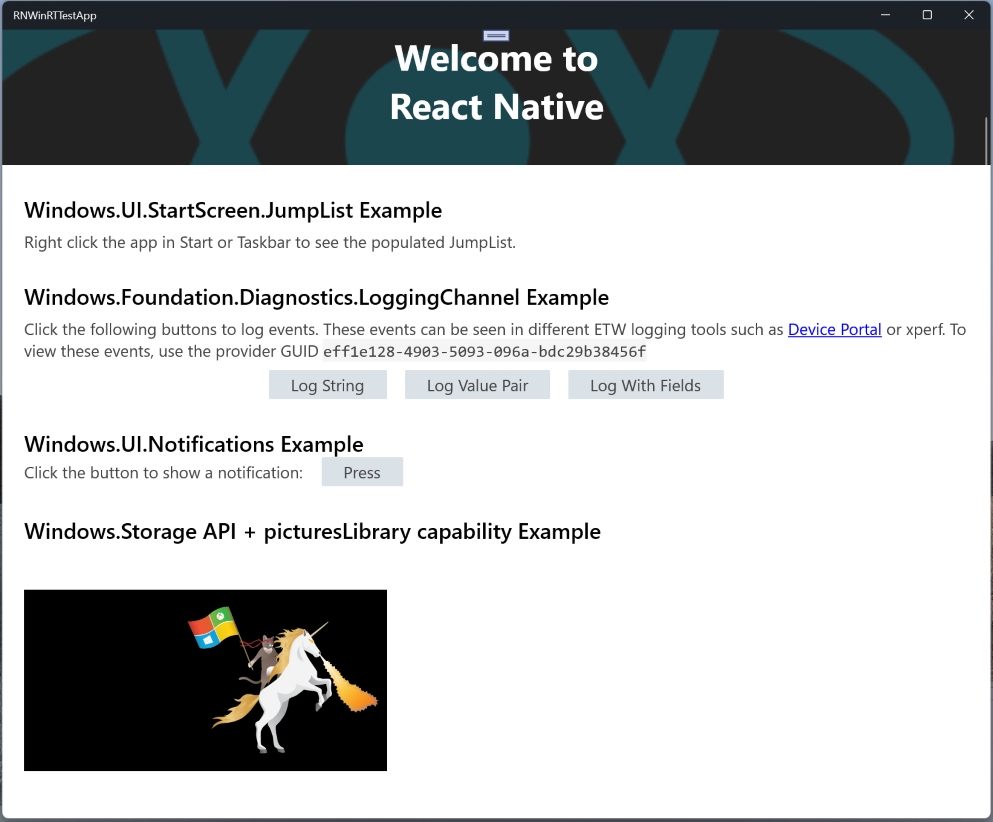
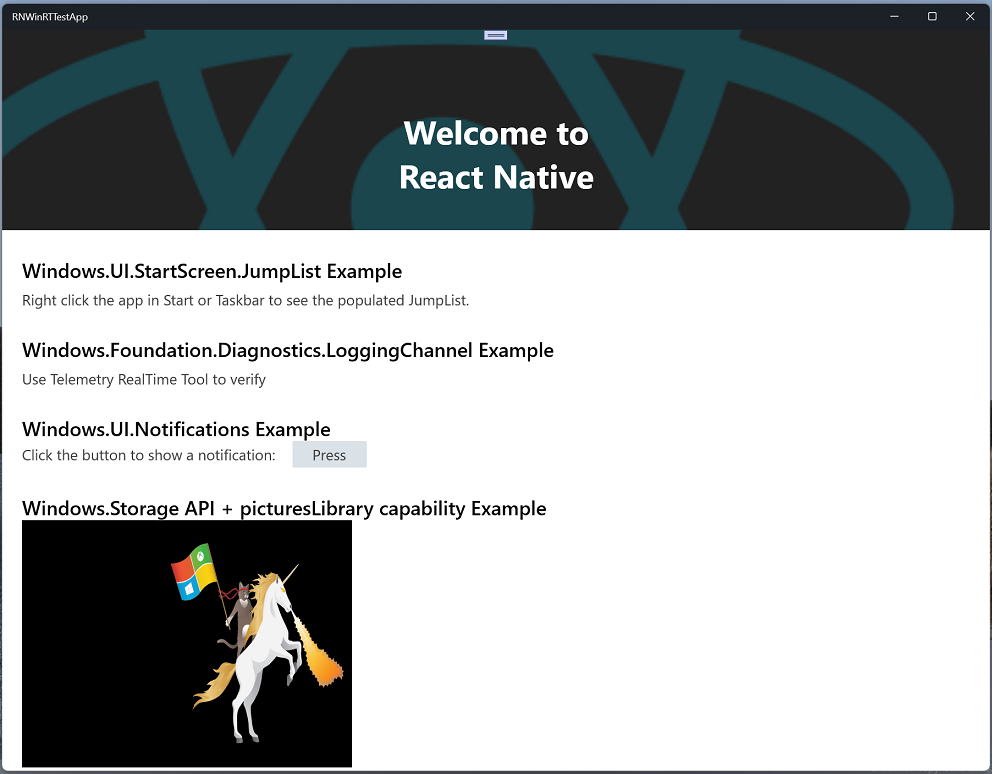
Revert "Update sample to use different ids, etc. for LoggingChannel example"

diff --git a/samples/RNWinRTTestApp/App.tsx b/samples/RNWinRTTestApp/App.tsx
@@ -11,7 +11,6 @@ import {
     Text,
     StatusBar,
     Pressable,
-    Linking,
 } from "react-native";
 
 import {
@@ -126,6 +125,25 @@ async function getPictureThumbnailAsync(): Promise<string> {
     return "";
 }
 
+function logWindowsTelemetry(): void
+{
+    try {
+        const DiagnosticsApi = Windows.Foundation.Diagnostics;
+        const loggingChannel =  new DiagnosticsApi.LoggingChannel("Microsoft-Windows-Shell-Launcher",
+          new DiagnosticsApi.LoggingChannelOptions("{4F50731A-89CF-4782-B3E0-DCE8C90476BA}"), "{3d6120a6-0986-51c4-213a-e2975903051d}")
+
+        const loggingOptions = new DiagnosticsApi.LoggingOptions();
+        loggingOptions.keywords = 0x0000400000000000;
+        loggingOptions.tags = 0;
+
+        const loggingFields = new DiagnosticsApi.LoggingFields();
+        loggingFields.addUInt64("PartA_PrivTags", 0x0000000002000000);
+        loggingChannel.logEvent("ReactNativeWindows_WinRTProjections", loggingFields, DiagnosticsApi.LoggingLevel.warning, loggingOptions);
+    } catch (e) {
+        console.error(e);
+    }
+}
+
 interface AsyncImageProps {
     imageUriPromise?: Promise<string>;
 }
@@ -157,8 +175,7 @@ function AsyncImage(props: AsyncImageProps) {
 
 const App = () => {
     updateJumpListAsync();
-    // NOTE: The Id used is the hash of the string 'SampleProvider'. This Guid is 'eff1e128-4903-5093-096a-bdc29b38456f'
-    const loggingChannel = new Windows.Foundation.Diagnostics.LoggingChannel("SampleProvider", null);
+    logWindowsTelemetry();
     const imageUriPromise = getPictureThumbnailAsync();
 
     return (
@@ -180,35 +197,9 @@ const App = () => {
                     <View style={styles.body}>
                         <View style={styles.sectionContainer}>
                             <Text style={styles.sectionTitle}>Windows.Foundation.Diagnostics.LoggingChannel Example</Text>
-                            <Text style={styles.sectionDescription} selectable={true}>
-                                Click the following buttons to log events. These
-                                events can be seen in different ETW logging tools such as{' '}
-                                <Text style={{color: 'blue', textDecorationLine: 'underline'}} accessibilityRole='link' onPress={() => Linking.openURL('https://docs.microsoft.com/windows/uwp/debug-test-perf/device-portal#event-tracing-for-windows-etw-logging')}>Device Portal</Text>
-                                {' '}or xperf. To view
-                                these events, use the provider GUID{' '}
-                                <Text style={{fontFamily: 'Consolas', backgroundColor: 'whitesmoke'}}>eff1e128-4903-5093-096a-bdc29b38456f</Text>
+                            <Text style={styles.sectionDescription}>
+                                {`Use Telemetry RealTime Tool to verify`}
                             </Text>
-                            <View style={{ paddingTop: 10, flexDirection: 'row', justifyContent: 'center', flexWrap: 'wrap', alignItems: 'center' }}>
-                                <Pressable style={[{marginHorizontal: 10}, styles.sectionDescriptionButton]} onPress={() => {
-                                    loggingChannel.logMessage("This string is being logged from an RNW application!");
-                                }}>
-                                    <Text style={styles.sectionDescriptionButtonText}>Log String</Text>
-                                </Pressable>
-                                <Pressable style={[{marginHorizontal: 10}, styles.sectionDescriptionButton]} onPress={() => {
-                                    loggingChannel.logValuePair("This value is being logged from an RNW application!", 42);
-                                }}>
-                                    <Text style={styles.sectionDescriptionButtonText}>Log Value Pair</Text>
-                                </Pressable>
-                                <Pressable style={[{marginHorizontal: 10}, styles.sectionDescriptionButton]} onPress={() => {
-                                    var fields = new Windows.Foundation.Diagnostics.LoggingFields();
-                                    fields.addString("string", "Hello, from RNW!");
-                                    fields.addInt32("int32", 42);
-                                    fields.addDateTime("date", new Date());
-                                    loggingChannel.logEvent("This structure is being logged from an RNW application!", fields);
-                                }}>
-                                    <Text style={styles.sectionDescriptionButtonText}>Log With Fields</Text>
-                                </Pressable>
-                            </View>
                         </View>
                     </View>
                     <View style={styles.body}>
